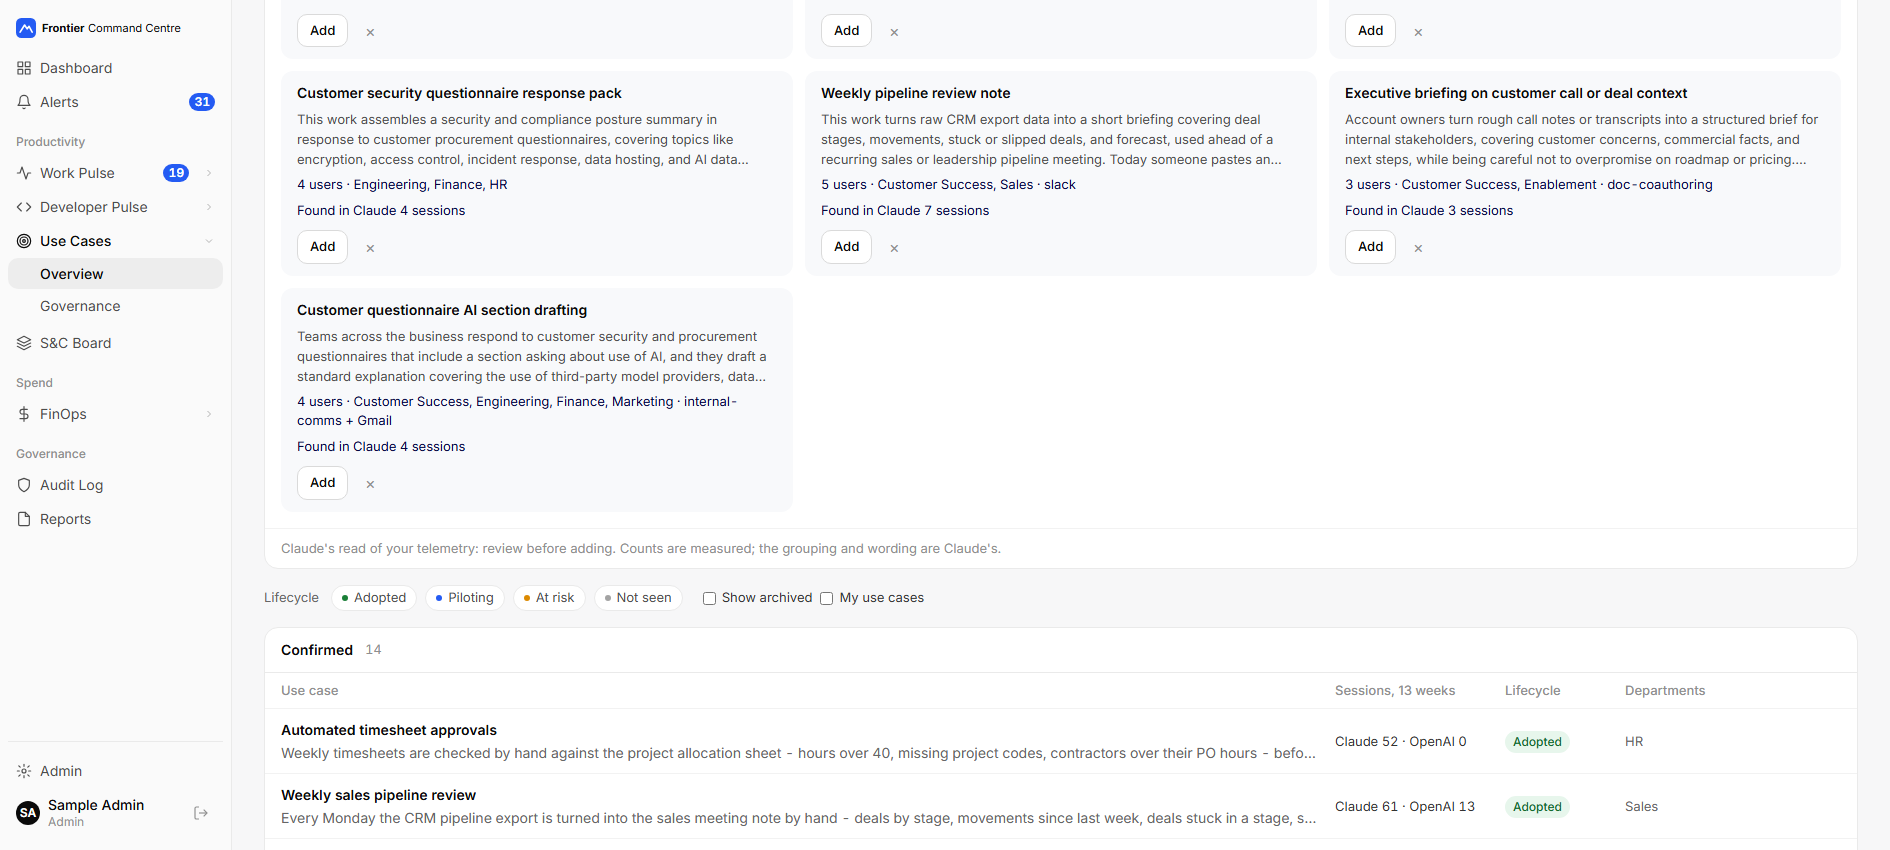
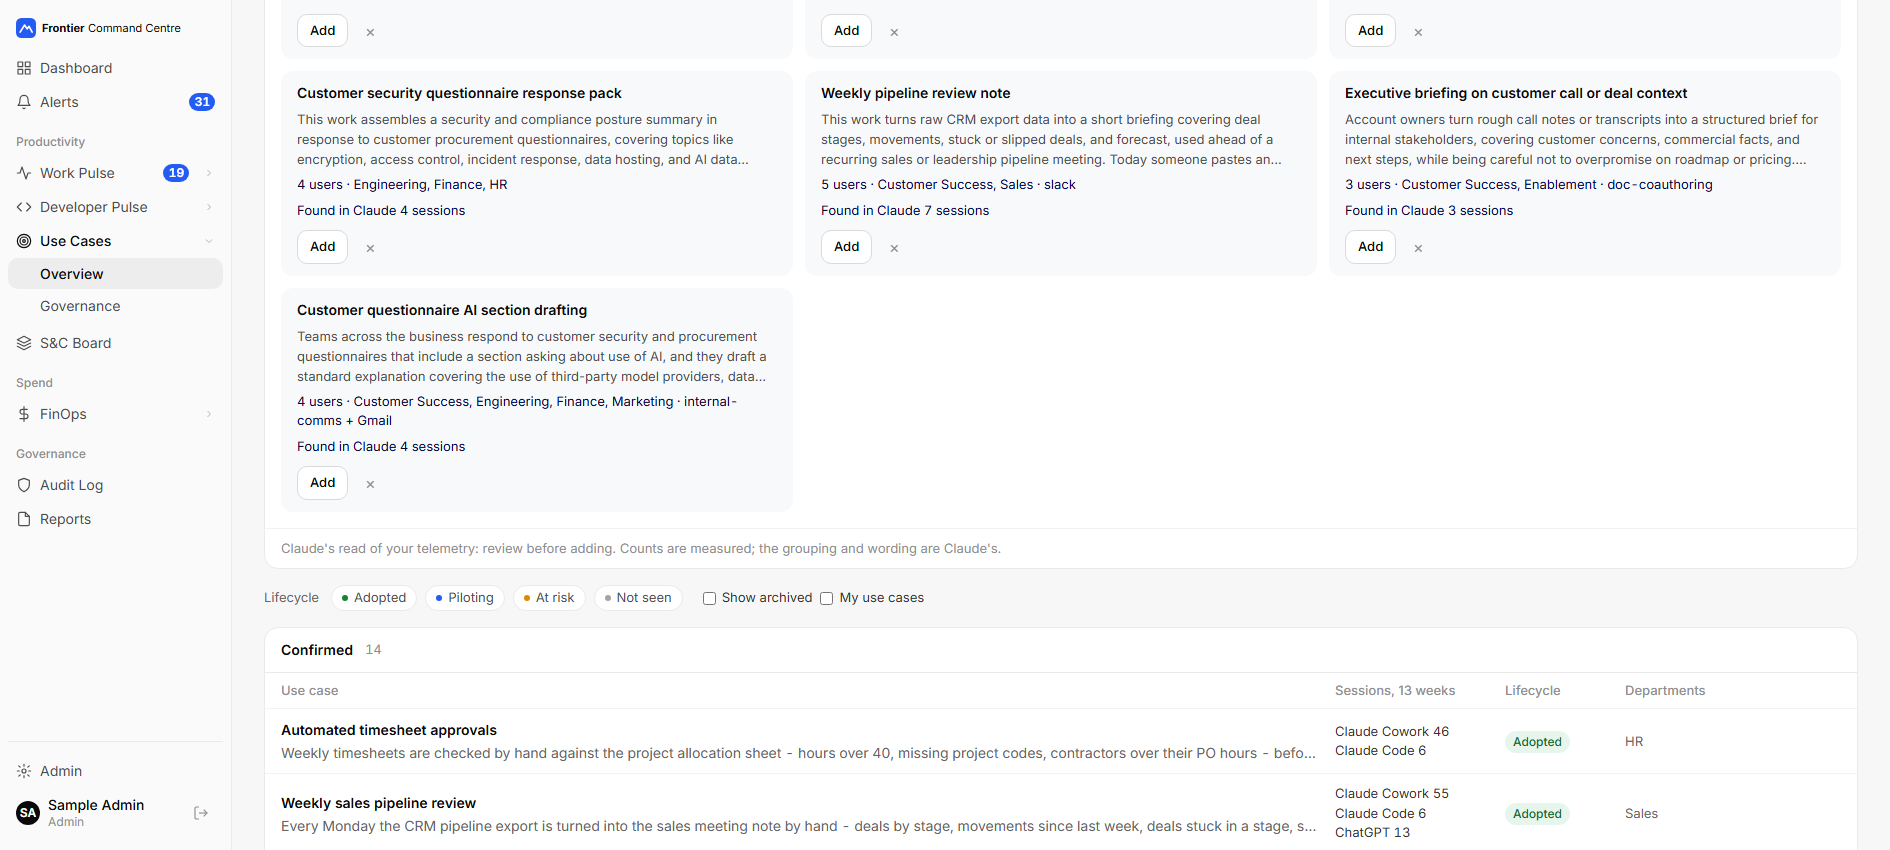
Use cases register: sessions for each product that did the work, one per line

Changed region(s): [[0.1249, 0.9176, 0.8741, 1.0], [0.6868, 0.8565, 0.7804, 0.8871]]

diff --git a/app/use-cases/page.tsx b/app/use-cases/page.tsx
@@ -14,7 +14,6 @@ import ProcessCanvasCard from '@/components/usecases/ProcessCanvasCard';
 import type { ProcessCanvas } from '@/lib/usecases/suggestion-store';
 import { groupDeptBoxes, surfaceLabels } from '@/lib/usecases/dept-boxes';
 import { useConnectedProducts } from '@/components/shared/VendorSwitch';
-import { isOpenAiOnly } from '@/lib/sources/connected-shared';
 import { PageBody, Toolbar, Panel, PanelFoot, SubHead, T, Tag, Pill, B, Notice, Empty, cx } from '@/components/precision/ui';
 
 interface UseCase {
@@ -31,7 +30,11 @@ interface UseCase {
   strategic: number;
   /** Sessions per vendor, last 13 completed weeks; openai null when ChatGPT and Codex are hidden. */
   platformSessions?: { claude: number; openai: number | null };
+  /** The same sessions per product, which the register column shows. */
+  productSessions?: ProductSessions;
 }
+
+interface ProductSessions { cowork: number; code: number; chatgpt: number | null; codex: number | null }
 
 interface SuggestionDraft {
   id: string;
@@ -77,17 +80,23 @@ const LIFECYCLE_DOT: Record<LifecycleTone, string> = {
 const LIFECYCLE_FACETS: Array<UseCase['lifecycle']> = ['adopted', 'piloting', 'at_risk', 'not_seen'];
 
 /**
- * "Claude 12 · ChatGPT and Codex 4": a use case's matched sessions by vendor. The
- * ChatGPT and Codex part shows only once OpenAI is connected and shown, and
- * Claude is left out on a hub where only OpenAI is connected.
+ * "Claude Cowork 40", "Claude Code 21", "Codex 13", one per line: a use
+ * case's matched sessions in the last 13 weeks, by product, listing only products with
+ * sessions. ChatGPT and Codex count only once OpenAI is connected and shown;
+ * a use case with no sessions reads 0.
  */
-function PlatformCell({ p, openAiOnly, showOpenAi }: { p?: { claude: number; openai: number | null }; openAiOnly: boolean; showOpenAi: boolean }) {
+function PlatformCell({ p, showOpenAi }: { p?: ProductSessions; showOpenAi: boolean }) {
   if (!p) return <span className="text-[#8F8F8F]">—</span>;
-  const parts: string[] = [];
-  if (!openAiOnly) parts.push(`Claude ${p.claude}`);
-  if (showOpenAi && p.openai !== null) parts.push(`ChatGPT and Codex ${p.openai}`);
-  if (parts.length === 0) return <span className="text-[#8F8F8F]">—</span>;
-  return <span className="text-[#333333]">{parts.join(' · ')}</span>;
+  const all: Array<[string, number | null]> = [
+    ['Claude Cowork', p.cowork],
+    ['Claude Code', p.code],
+    ['ChatGPT', showOpenAi ? p.chatgpt : null],
+    ['Codex', showOpenAi ? p.codex : null],
+  ];
+  const parts = all.filter((x): x is [string, number] => x[1] !== null && x[1] > 0).map(([label, n]) => `${label} ${n}`);
+  if (parts.length === 0) return <span className="text-[#8F8F8F]">0</span>;
+  // One product per line, so the column stays narrow however many products did the work.
+  return <span className="flex flex-col text-[#333333]">{parts.map(t => <span key={t} className="whitespace-nowrap">{t}</span>)}</span>;
 }
 
 export default function UseCasesRegisterPage() {
@@ -220,7 +229,6 @@ export default function UseCasesRegisterPage() {
 
   const visibleSuggestions = suggestions ?? [];
   const connected = useConnectedProducts();
-  const openAiOnly = isOpenAiOnly(connected);
 
   // One box per department; Work and Code suggestions are lists inside it.
   const { deptBoxes, orgSuggestions } = useMemo(() => {
@@ -445,7 +453,7 @@ export default function UseCasesRegisterPage() {
                             <p className="m-0 mt-0.5 text-[#666666] truncate" title={uc.description}>{uc.description}</p>
                           )}
                         </td>
-                        <td className={cx(T.td, 'text-[13px] tabular-nums')}><PlatformCell p={uc.platformSessions} openAiOnly={openAiOnly} showOpenAi={!!connected?.openai} /></td>
+                        <td className={cx(T.td, 'text-[13px] tabular-nums')}><PlatformCell p={uc.productSessions} showOpenAi={!!connected?.openai} /></td>
                         <td className={T.td}>{pill ? <Pill tone={pill.tone}>{pill.label}</Pill> : <span className="text-[#8F8F8F]">—</span>}</td>
                         <td className={cx(T.tdMute, 'text-[13px] truncate')} title={uc.departments.join(', ')}>
                           {uc.departments.length > 0 ? uc.departments.join(', ') : '—'}

diff --git a/lib/usecases/platform-sessions.ts b/lib/usecases/platform-sessions.ts
@@ -63,6 +63,69 @@ export async function getUseCasePlatformSessions(
   return out;
 }
 
+/** Sessions per product, the four the use case page's Workflow Impact panel names. */
+export interface ProductSessions {
+  /** Claude's knowledge work: Claude Cowork, Claude Chat and Claude in Office and Google (cowork_session_stats). */
+  cowork: number;
+  /** Claude Code (code_session_stats). */
+  code: number;
+  /** ChatGPT and Codex; null when ChatGPT and Codex are hidden. */
+  chatgpt: number | null;
+  codex: number | null;
+}
+
+interface ProductRow { use_case_id: string; cowork: number | string; code: number | string; chatgpt: number | string; codex: number | string }
+
+/**
+ * The same sessions as getUseCasePlatformSessions, counted per product
+ * rather than per vendor, so the register can show which products the work
+ * was done in (Claude Code and Codex included). Same window and rules.
+ */
+export async function getUseCaseProductSessions(
+  nowS: number,
+  opts: { openaiShown: boolean },
+): Promise<Map<string, ProductSessions>> {
+  const windowStarts = weekStarts(nowS - WEEK, WINDOW_WEEKS);
+  const client = await getTypedClient();
+  const res = await (client as unknown as { execute: (q: unknown) => Promise<{ rows: ProductRow[] }> }).execute(sql`
+    WITH s AS (
+      SELECT DISTINCT use_case_id, session_id
+        FROM use_case_week_matches
+       WHERE session_id <> ''
+         AND week_start IN (${sql.join(windowStarts.map(w => sql`${w}`), sql`, `)})
+    )
+    SELECT s.use_case_id,
+           COUNT(*) FILTER (
+             WHERE s.session_id NOT LIKE 'chatgpt:%' AND s.session_id NOT LIKE 'codex:%'
+               AND EXISTS (SELECT 1 FROM cowork_session_stats c WHERE c.session_id = s.session_id)
+           ) AS cowork,
+           COUNT(*) FILTER (
+             WHERE s.session_id NOT LIKE 'chatgpt:%' AND s.session_id NOT LIKE 'codex:%'
+               AND NOT EXISTS (SELECT 1 FROM cowork_session_stats c WHERE c.session_id = s.session_id)
+               AND EXISTS (SELECT 1 FROM code_session_stats d WHERE d.session_id = s.session_id)
+           ) AS code,
+           COUNT(*) FILTER (
+             WHERE s.session_id LIKE 'chatgpt:%'
+               AND EXISTS (SELECT 1 FROM chatgpt_session_time t WHERE t.session_id = s.session_id)
+           ) AS chatgpt,
+           COUNT(*) FILTER (
+             WHERE s.session_id LIKE 'codex:%'
+               AND EXISTS (SELECT 1 FROM code_session_stats d WHERE d.session_id = s.session_id)
+           ) AS codex
+      FROM s
+     GROUP BY s.use_case_id`);
+  const out = new Map<string, ProductSessions>();
+  for (const r of res.rows) {
+    out.set(r.use_case_id, {
+      cowork: Number(r.cowork),
+      code: Number(r.code),
+      chatgpt: opts.openaiShown ? Number(r.chatgpt) : null,
+      codex: opts.openaiShown ? Number(r.codex) : null,
+    });
+  }
+  return out;
+}
+
 export interface PlatformHours {
   /** Measured hours on Claude's sessions (Cowork and Claude Code); null when none carries measured time. */
   claude: number | null;

diff --git a/app/api/use-cases/route.ts b/app/api/use-cases/route.ts
@@ -9,7 +9,7 @@ import { eq } from 'drizzle-orm';
 import { getAllConfig } from '@/lib/config';
 import { getAdminSession, canAccessPulseAdmin } from '@/lib/auth/admin-auth';
 import { createUseCase, listUseCases } from '@/lib/usecases/queries';
-import { getUseCasePlatformSessions } from '@/lib/usecases/platform-sessions';
+import { getUseCasePlatformSessions, getUseCaseProductSessions } from '@/lib/usecases/platform-sessions';
 import { openaiShown } from '@/lib/sources/openai-visibility';
 import { getTypedClient } from '@/lib/db/client';
 import { schema } from '@/lib/db/schema';
@@ -40,10 +40,16 @@ export async function GET(request: NextRequest) {
   // Sessions per vendor over the last 13 completed weeks, for the register's
   // Claude / OpenAI column (lib/usecases/platform-sessions.ts).
   const shown = await openaiShown();
-  const platforms = await getUseCasePlatformSessions(Math.floor(Date.now() / 1000), { openaiShown: shown });
+  // The same sessions per product (Claude Cowork, Claude Code, ChatGPT, Codex), which the column shows.
+  const nowS = Math.floor(Date.now() / 1000);
+  const [platforms, products] = await Promise.all([
+    getUseCasePlatformSessions(nowS, { openaiShown: shown }),
+    getUseCaseProductSessions(nowS, { openaiShown: shown }),
+  ]);
   const res = NextResponse.json(rows.map(uc => ({
     ...uc,
     platformSessions: platforms.get(uc.id) ?? { claude: 0, openai: shown ? 0 : null },
+    productSessions: products.get(uc.id) ?? { cowork: 0, code: 0, chatgpt: shown ? 0 : null, codex: shown ? 0 : null },
   })));
 
   // Surface the viewer's linked cowork user id via a response header (not the

diff --git a/test/use-cases-routes.test.ts b/test/use-cases-routes.test.ts
@@ -719,6 +719,8 @@ describe('GET /api/use-cases — sessions by vendor (register column)', () => {
     expect(Array.isArray(body)).toBe(true);
     const row = body.find((r: { id: string }) => r.id === 'uc-plat');
     expect(row.platformSessions).toEqual({ claude: 2, openai: 2 });
+    // The register column shows the same sessions per product.
+    expect(row.productSessions).toEqual({ cowork: 1, code: 1, chatgpt: 1, codex: 1 });
     // Leave nothing that would block the shared clean-up of users
     await sql.exec(`DELETE FROM cowork_session_stats WHERE session_id = 'cw-1'`);
     await sql.exec(`DELETE FROM cowork_sessions WHERE id = 'cw-1'`);
@@ -735,5 +737,6 @@ describe('GET /api/use-cases — sessions by vendor (register column)', () => {
     const body = await (await GET(makeRequest('/api/use-cases'))).json();
     const row = body.find((r: { id: string }) => r.id === 'uc-empty');
     expect(row.platformSessions).toEqual({ claude: 0, openai: null });
+    expect(row.productSessions).toEqual({ cowork: 0, code: 0, chatgpt: null, codex: null });
   });
 });

diff --git a/CHANGELOG.md b/CHANGELOG.md
@@ -12,7 +12,7 @@
 - Sample data includes thirteen weeks of ChatGPT and Codex activity.
 - A stand-in for OpenAI's Compliance API (`scripts/openai-mock`) for building and testing the sync without a ChatGPT Enterprise workspace.
 - GitHub commits are matched to the tool that made them. A commit counts as made with Claude Code or Codex when its author is a Command Centre person whose Claude Code or Codex activity recorded a commit within 15 minutes of it; commit messages are never read. Shipping Alignment compares each tool with its own GitHub commits, and each person's repository count and the Codex view's codebase reach follow the same matching.
-- The use cases register shows each use case's matched sessions in the last 13 weeks by vendor ("Claude 12 · ChatGPT and Codex 4"), and Use Case Governance shows sessions and measured hours by vendor. Each department and cross-department suggestion says how many of its sessions came from Claude, ChatGPT and Codex.
+- The use cases register shows each use case's matched sessions in the last 13 weeks for each product that did the work (Claude Cowork, Claude Code, ChatGPT and Codex), and Use Case Governance shows sessions and measured hours by vendor. Each department and cross-department suggestion says how many of its sessions came from Claude, ChatGPT and Codex.
 - Identity conflicts catch one OpenAI account arriving under two email addresses, beside Claude's installation conflicts, with the same merge and undo.
 - Anomaly detection runs once a day while a Claude API key is set and at least one of its alert types is on, takes the acceptable use policy into account, and sees Codex turns and tokens and ChatGPT replies per person (no prompt text).
 
